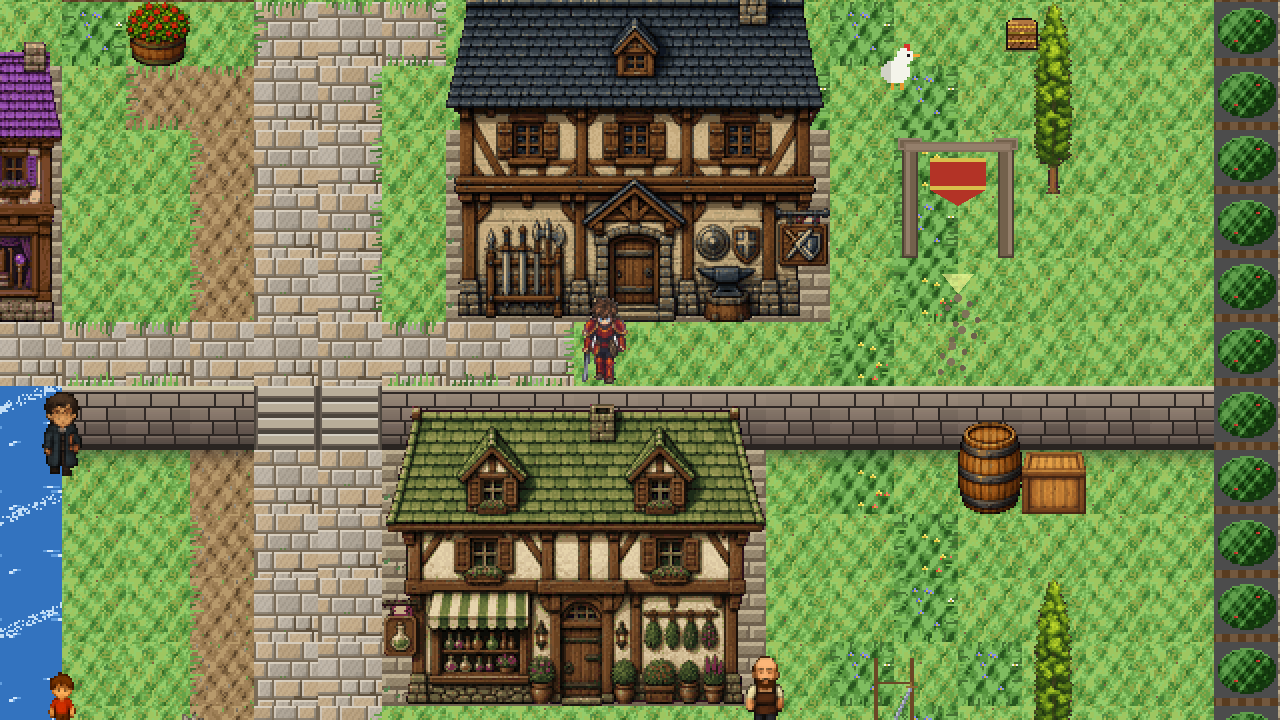
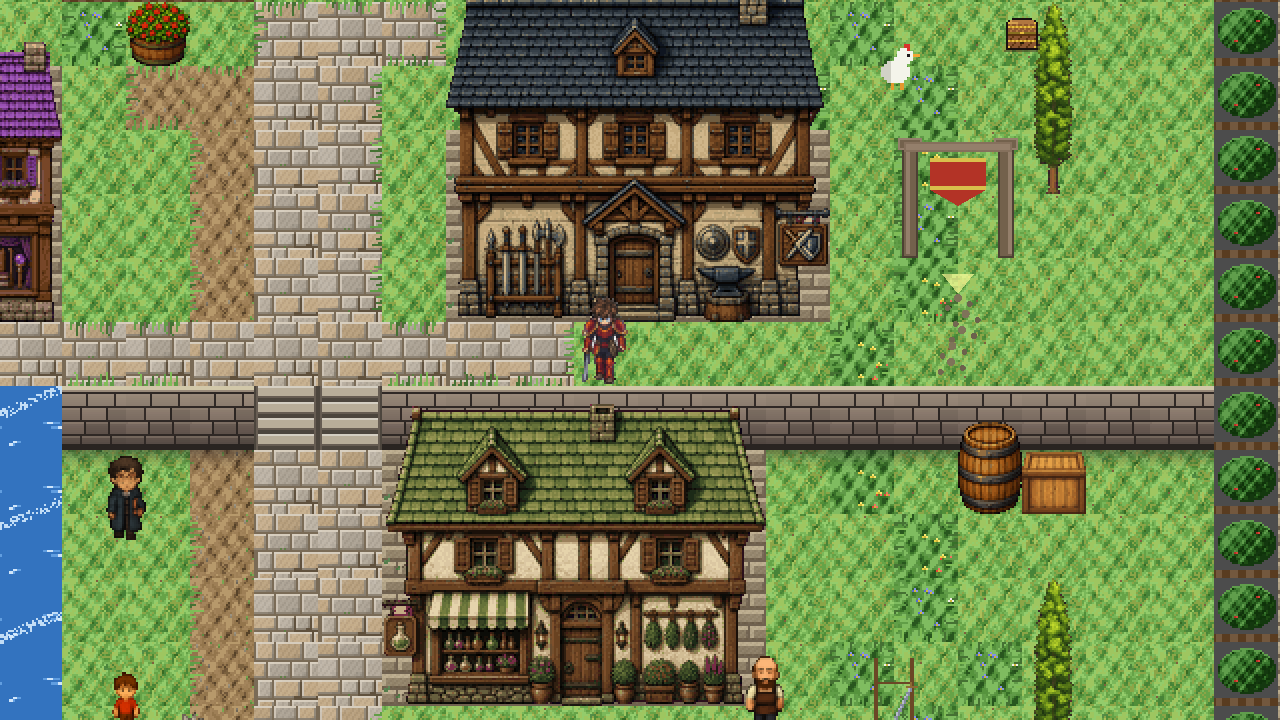
store assets: re-shot at v3.33.773-alpha, villagers on whole ground
.773 moved nine villagers off blocked cells, and four store frames show it, judged
in pixels against the shipped set with two runs of the tag (noise 0.00% each):
harmonia_village (the lead frame) 0.83%: Scholar Milo is out of the pond ·
frosthold_village 0.72%: the villager off the frozen water · grimhollow_village
0.19%: the villager off the crate · title_screen: the version label reads .773.
Kept: sandrift (its own animation, runs differ 0.35%) and the other seven (SAME).
Each moved frame was eye-checked against the one it replaces. CAPTIONS: vintage
table (.773 row) + section; MANIFEST: 5 rows regenerated (cksum + stat) by
reshoot_apply; check_store_assets --verify ec 0.

Claude-Session: https://claude.ai/code/session_01W2qjrDSfZUL4M11aPpJvXX

diff --git a/itch-assets/CAPTIONS.md b/itch-assets/CAPTIONS.md
@@ -1,18 +1,29 @@
 # Store screenshot captions — Cowardly Irregular
 
-**Current vintage of every shipped frame (2026-11-04, read from git, not remembered):**
+**Current vintage of every shipped frame (2026-11-05, read from git, not remembered):**
 
 | captured at | shots | section |
 |---|---|---|
 | `v3.33.750-alpha` | `battle_storm` · `field_elite_medieval` · `field_elite_prompt_medieval` · `field_elite_steampunk` · `grimhollow_spiral` · `infernal_grotto_f3` · `warren_lever_portals` · `warren_wrap_field` | commit `1df31b2fb` |
 | `v3.33.752-alpha` | (none left: both re-shot at `.767`) | commits `438ff3e68`, `21f990b47` |
 | `v3.33.767-alpha` | `battle` | "re-shot at `v3.33.767-alpha`" |
-| `v3.33.770-alpha` | the six villages · the three interiors · `whispering_cave` · `title_screen` | "re-shot at `v3.33.770-alpha`, door labels hidden" |
+| `v3.33.770-alpha` | `ironhaven_village` · `sandrift_village` · `eldertree_village` · the three interiors · `whispering_cave` | "re-shot at `v3.33.770-alpha`, door labels hidden" |
+| `v3.33.773-alpha` | `harmonia_village` · `frosthold_village` · `grimhollow_village` · `title_screen` | "re-shot at `v3.33.773-alpha`, villagers on whole ground" |
 
 Re-derive it rather than trusting this table: `git log -1 --format=%h -- itch-assets/screenshots/<shot>.png`
 names the commit, and that commit's message names the tag it was shot from. Which of them have gone
 stale since: `tools/store_shot_staleness.py --from <capture tag> --to <store tag>` (a candidate list,
 never a verdict; decide in pixels with `--compare`).
+
+**2026-11-05: re-shot at `v3.33.773-alpha`, villagers on whole ground.** `.773` moved nine villagers
+off blocked cells (overworld `e6a845267`), and four store frames show it, judged in pixels against
+the shipped set with two runs of the tag (noise 0.00% on each, so every delta is deterministic):
+`harmonia_village` 0.83%, 7667 px in a 146x334 box at the left edge: Scholar Milo is OUT of the pond
+(the shipped lead frame had him half in the water) · `frosthold_village` 0.72%: the villager who stood
+on the frozen water now stands on the stone · `grimhollow_village` 0.19%: the villager who stood half
+on a crate now stands beside it · `title_screen`: the version label now reads `.773`. Kept: `sandrift_village`
+(its two runs differ by 0.35%, so its 0.66% is its own animation) and the other seven (SAME). Each
+moved frame was compared by eye with the one it replaces before it went in.
 
 This header used to say the set was `.549` with five `.225` frames. It stayed that way through
 three re-shoots because each one added its own section further down and left the header alone.
